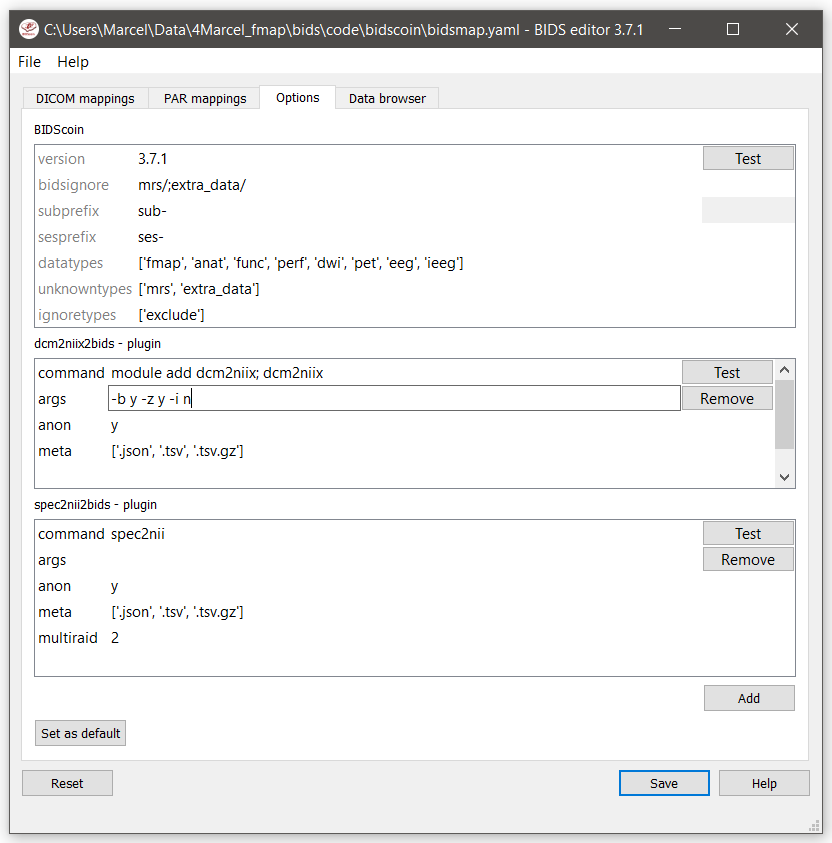
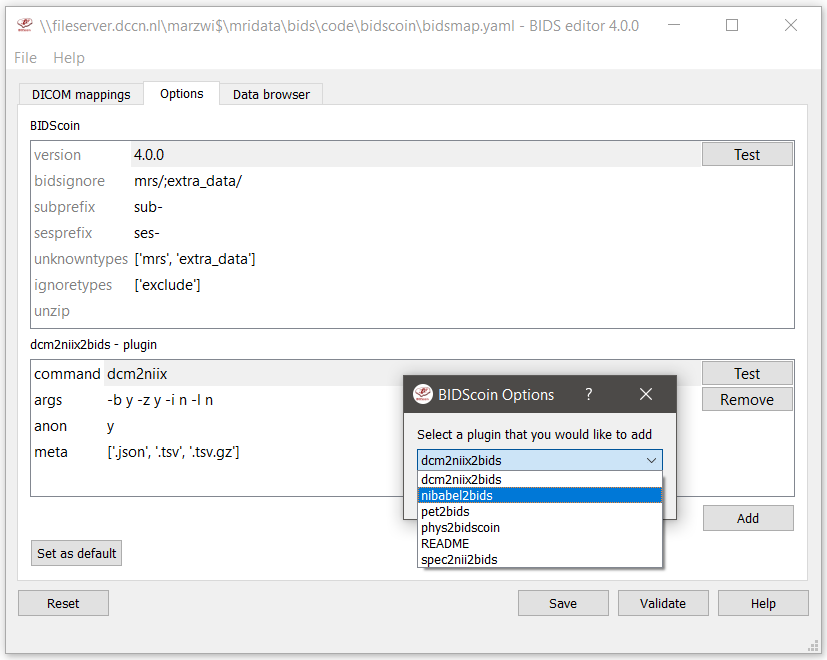
Upgrade to v4.0.0 + minor tweaks

Changed region(s): [[0.0, 0.0, 0.9976, 1.0], [0.4232, 0.0909, 0.5139, 0.1212]]

diff --git a/bidscoin/bidseditor.py b/bidscoin/bidseditor.py
@@ -509,7 +509,7 @@ class MainWindow(QMainWindow):
                         samples_table.item(idx, 3).setForeground(QtGui.QColor('green'))
                         samples_table.item(idx, 3).setToolTip(f"Green: This '{datatype}' data type is part of BIDS")
 
-                if validrun:
+                if validrun or datatype in self.bidsignore or datatype in self.ignoredatatypes:
                     edit_button = QPushButton('Edit')
                     edit_button.setToolTip('Click to see more details and edit the BIDS output name')
                 else:
@@ -1074,8 +1074,7 @@ class EditWindow(QDialog):
                     return
 
                 # Write all the meta-data to the target_run
-                for key, value in metadata.items():
-                    self.target_run['meta'][key] = value
+                self.target_run['meta'].update(metadata)
 
                 # Refresh the meta-table using the target_run
                 _, _, _, data_meta = self.run2data()

diff --git a/bidscoin/bids.py b/bidscoin/bids.py
@@ -243,9 +243,7 @@ class DataSource:
             if not isinstance(attributes, dict):
                 LOGGER.warning(f"Skipping unexpectedly formatted meta-data in: {jsonfile}")
                 return {}
-            for key, val in attributes.items():
-                if key not in self._cache:
-                    self._cache[key] = val
+            self._cache.update(attributes)
 
         return attributes
 
@@ -1415,8 +1413,7 @@ def append_run(bidsmap: dict, run: dict, clean: bool=True) -> None:
             if item == 'datasource':
                 run_['datasource'] = run['datasource']
                 continue
-            for key, value in run[item].items():
-                run_[item][key] = value
+            run_[item].update(run[item])
 
         run = run_
 

diff --git a/docs/installation.rst b/docs/installation.rst
@@ -13,11 +13,11 @@ To install BIDScoin on your system run one of the following commands in your com
 
 .. code-block:: console
 
-   $ pip install bidscoin                           # Use this when you want to convert conventional MR imaging data with the dcm2niix2bids plugin
-   $ pip install bidscoin[spec2nii2bids]            # Use this when you want to convert MR spectroscopy data with the spec2nii2bids plugin
-   $ pip install bidscoin[deface]                   # Use this when you want to deface anatomical MRI scans. NB: Requires FSL to be installed on your system
-   $ pip install bidscoin[deface,spec2nii2bids]     # Use this to install two extra packages of interest
-   $ pip install bidscoin[all]                      # Use this to install all extra packages
+   $ pip install bidscoin                       # Use this when you want to convert conventional MR imaging data with the dcm2niix2bids plugin
+   $ pip install bidscoin[spec2nii2bids]        # Use this when you want to convert MR spectroscopy data with the spec2nii2bids plugin
+   $ pip install bidscoin[deface]               # Use this when you want to deface anatomical MRI scans. NB: Requires FSL to be installed on your system
+   $ pip install bidscoin[deface,pet2bids]      # Use this when you want to deface anatomical MRI scans and convert PET data with the pet2bids plugin
+   $ pip install bidscoin[all]                  # Use this to install all extra packages
 
 These install commands can be run independently and will give you the latest stable release of BIDScoin and its `plugins <options.html#dcm2niix2bids-plugin>`__. Alternatively, if you need to use the very latest (development / unstable) version of the software, you can also install BIDScoin directly from the github source code repository:
 
@@ -46,7 +46,7 @@ Run your pip install command as before with the additional ``--upgrade`` or ``--
    - After a successful BIDScoin installation or upgrade, it may be needed to (re)do any adjustments that were done on your `template bidsmap <bidsmap.html#building-your-own-template-bidsmap>`__ (so make a back-up of it before you upgrade)
 
 .. _Options: options.html
-.. _virtual: https://docs.python.org/3.6/tutorial/venv.html
+.. _virtual: https://docs.python.org/3/tutorial/venv.html
 .. _conda: https://conda.io/docs/user-guide/tasks/manage-environments.html
 .. _download: https://github.com/Donders-Institute/bidscoin
 

diff --git a/docs/CHANGELOG.md b/docs/CHANGELOG.md
@@ -4,11 +4,12 @@ All notable changes to this project will be documented in this file. The format 
 
 ## [dev]
 
-## [3.8.0] - 2023-01-03
+## [4.0.0] - 2023-03-01
 
 ### Added
 - Support for BIDS 1.8.0
 - Support for handling of non-alphanumeric characters in sub/ses prefixes
+- A new (optional) pet2bids plugin
 - A `skullstrip` tool (a bids-wrapper around FreeSurfer/synthstrip)
 - A `slicereport` QC tool (a bids-wrapper around FSL/slicesdir)
 - A unit/integration test & CI framework
@@ -17,11 +18,15 @@ All notable changes to this project will be documented in this file. The format 
 - Checks using the bids-validator python module
 - Options to perform study/template bidsmap tests with `bidscoin -b / -t`
 - Option to list and install template bidsmaps
+- Many bugfixes, user interface improvements and tweaks
 
 ### Changed
 - The default behaviour is now not to unzip data in the sourcefolders anymore. Instead, users can use the `--unzip` option in the bidsmapper
+- The spec2nii plugin is no longer added by default but is optional
+- The dcm2niix2bids plugin no longer handles PET data (this is now handeled by the pet2bids plugin)
 - Removed BIDScoin's redundant/confusing `datatypes` option from the bidsmap
 - Removed the obscure `participants` option from bidscoiner
+- Major code refactoring
 
 ## [3.7.4] - 2022-10-21
 
@@ -353,8 +358,8 @@ A first stable release of BIDScoin :-)
 ### To do
 * Add support for non-imaging data
 
-[dev]: https://github.com/Donders-Institute/bidscoin/compare/3.8.0...HEAD
-[3.8.0]: https://github.com/Donders-Institute/bidscoin/compare/3.7.4...3.8.0
+[dev]: https://github.com/Donders-Institute/bidscoin/compare/4.0.0...HEAD
+[4.0.0]: https://github.com/Donders-Institute/bidscoin/compare/3.7.4...4.0.0
 [3.7.4]: https://github.com/Donders-Institute/bidscoin/compare/3.7.3...3.7.4
 [3.7.3]: https://github.com/Donders-Institute/bidscoin/compare/3.7.2...3.7.3
 [3.7.2]: https://github.com/Donders-Institute/bidscoin/compare/3.7.1...3.7.2
